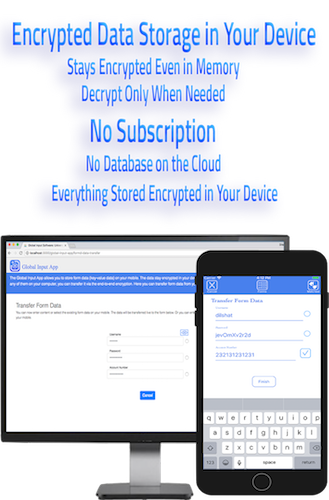
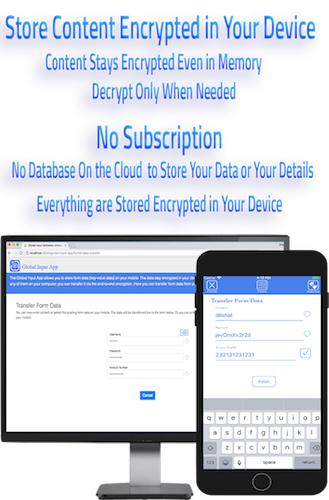
refactoring

Changed region(s): [[0.0304, 0.24, 0.9726, 0.45], [0.0, 0.03, 0.9726, 0.21]]

diff --git a/src/page-templates/configs/qrPrintingConfig.js b/src/page-templates/configs/qrPrintingConfig.js
@@ -1,6 +1,6 @@
 const qrPrintingConfig={
-    title:"Encrypted QR Code",
-    appSubtitle:"Encrypted QR Code",
+    title:"Create Encrypted QR Codes",
+    appSubtitle:"Encrypted QR Codes",
     menu:{
         link:"/global-input-app/qr-printing",
         linkText:"QR Code Printing",
@@ -8,51 +8,32 @@ const qrPrintingConfig={
          bookmark:"qrPrinting"
     },
     content:[
-    "You can use Encrypted QR Codes store and transfer encrypted content in the form of papers or images.",
-    "You can transfer content between two Global Input App instance securely without using network connection.",
-    "The encrypted QR Code can only be decrypted if the Global Input App contains the same encryption key that was used in encrypting the content. ",
-    "You can use the encryption keys to decide who can access the information in the QR codes",
-    {type:"line", content:["Here you can encrypt the content in the Global Input App and send the encrypted content over to your computer via ",{type:"a", href:"https://github.com/global-input/global-input-node",content:"the webSocket server"}]},
-    {type:"line", content:["This is also an example of how to use ",{
-      type:"a", content:"the global-input-message", href:"https://github.com/global-input/global-input-message"
-    }, " WebSocket JavaScript library  to implent the Global Input control on an application running on another device"]}],
+    "You can create encrypted QR Codes and print them out. A Global Input App instance can decrypt the encrypted QR Code only if it contains the same encryption key that was used for creating the encrypted QR code. Hence, you can pre-share one of the encryption keys in the app with another Global Input instance to transfer content securely via QR codes.",
+    "Here, you can encrypt content on your Global Input App and send the encrypted content over to a JavaScript code in this page using the end-to-end encryption for printing out the QR code.",
+    {type:"line", content:["This is also an example of how to use the ",{
+      type:"a", content:"global-input-message", href:"https://github.com/global-input/global-input-message"
+    }, " JavaScript library to implement a mobile control on a web application."]}],
 
     advert:{
-            duration:10000,
+            duration:5000,
             items:[{
-              title:"Encrypted QR Codes",
-              content:["Transfer the Encrypted Content Without Using the Network Connection",
-                      "Use Encrypted QR Codes to Backup Encryption Keys",
-                      "Use Encrypted QR Codes to Transfer Confidential Messages"],
-              className: "animateLeftRight"
+              title:"Create Encrypted QR Codes",
+              content:["Encrypt Content with Encryption Keys",
+                      "Backup and Share Credentials"],
             },{
-              title:"Use Papers to Backup Encryption Keys",
-              content:["Use the Encrypted QR Code to Backup Encryption Keys",
-                      "Scan to Import the Encryption Keys"],
-              className: "animateAppearFromSmallToBig"
+              title:"Scan to Decrypt the Content",
+              content:["Transfer Encrypted Content via QR Code",
+                      "Share Encryption Keys Securely"],
             },{
-              title:"Open Source Solution",
-              content:["Password Management, Encrypted Storage & Transfer",
-                       "Device Control, Second Screen, All in One Solution",
-                       "Extend Your Existing Applications into Mobile Devices"],
-              className:"animateSideSlide"
-            },{
-              title:"Encrypted QR Codes",
-              content:["Use the Encrypted QR Codes to Store and Transfer Encrypted Messages",
-                      "Scan to Decrypt the Encrypted Messages"],
-              className: "animateWithRotate"
-            },{
-              title:"Control the Access to the Content with the Encryption Keys",
-              content:["Share Encryptions Keys with Password Encrypted QR Codes",
-                      "Select Encrypt Key to Control Access to Data",
-                       "Scan to Import Password-Encrypted Encryption Keys"],
-              className: "animateLeftRight"
+              title:"Data Transfer using End-to-End Encryption",
+              content:["Transfer Content Between Devices",
+                       "Scan to Start the Data Transfer"],
             }]
 
     },
 
     connecting:{
-        title:"Encrypted QR Code",
+        title:"Encrypted QR Codes",
         content:"Loading..."
     },
     printed:{
@@ -66,7 +47,7 @@ const qrPrintingConfig={
     },
     senderConnected:{
         title:"Encrypted QR Code",
-        content:"Press the \"Encrypt\" button in the Global Input App to compose an encrypted message. The encrypted content will be send over from the Global Input App to the \"Content\" field in the form to use as the content of the QR code."
+        content:"Press the \"Encrypt\" button in the Global Input App to compose an encrypted message. The encrypted content will be send over from the Global Input App to the \"Content\" field in the form here."
     },
     contentField:{
         label:"Content"

diff --git a/src/page-templates/configs/contentTransferConfig.js b/src/page-templates/configs/contentTransferConfig.js
@@ -7,30 +7,23 @@ const contentTransferConfig={
     },
     title:"Encrypted Content Transfer",
     appSubtitle:"Content Transfer",
-    content:["Transfer content live between your Global Input App instance and a computer using the end-to-end encryption.",
-              {type:"line", content:["This also shows how to use ",{
+    content:["You can use the Global Input App to transfer content between your devices using the end-to-end encryption. You can use the app to transfer content to other Global Input App instance or vice versa.",
+             "Here, you can use the app to transfer content to a JavaScript code in this page. This allows you to transfer content between your mobile and your computer.",
+              {type:"line", content:["This is also also an example of how to use ",{
                 type:"a", content:"the global-input-message", href:"https://github.com/global-input/global-input-message"
-              }, " WebSocket JavaScript library  to enable an application to transfer content to/from the Global Input App"]}],
+              }, " WebSocket JavaScript library to introduce the mobile input or control to a JavaScript application."]}],
 
     advert:{
-            duration:10000,
+            duration:5000,
             items:[{
-              title:"Live Data Transfer from One Device to Another",
-              content:["The End-to-End Encryption Between the Global Input App and the JavaScript Code On the Page",
-                      "The Open Source Solution to Bring Mobile Device to Your Application"],
-              className: "animateLeftRight"
-            },{
-              title:"Open Source Solution",
-              content:["Password Management, Encrypted Storage & Transfer",
-                       "Device Control, Second Screen, All in One Solution",
-                       "Extend Your Existing Applications into Mobile Devices"],
-              className:"animateSideSlide"
-            },{
-              title:"Data Transfer Between Your Devices",
-              content:["Data Transfer via the End-To-End Encryption",
-                      "Encrypted Data Transfer via Open Source WebSocket Server"],
-              className: "animateAppearFromSmallToBig"
-            }]
+              title:"End-to-End Encrypted Data Transfer",
+              content:["Transfer Content Between Devices",
+                      "Scan to Start the Data Transfer"],
+              },{
+              title:"Sinle Mobile Solution",
+              content:["Password Management, Encrypted Storage & Data Transfer",
+                       "Mobile Input & Control for Device and Web Applications"],
+               }]
 
     },
 
@@ -46,7 +39,7 @@ const contentTransferConfig={
     },
     senderConnected:{
         title:"Encrypted Content Transfer",
-        content:"You can now type content on your mobile or on your computer, the content will appear on both.",
+        content:"You can now type the content on your mobile or on your computer, the content will appear on both.",
     },
     clipboard:{
       copied:"The content of the text field is copied into your clipboard"

diff --git a/src/page-templates/configs/developers/introductionToJSlibraryConfig.js b/src/page-templates/configs/developers/introductionToJSlibraryConfig.js
@@ -6,7 +6,7 @@ const introductionToJSlibraryConfig={
      bookmark:"globalinputmessage"
    },
    content:[{type:"line",content:["The ",{type:"a",content:"global-input-message WebSocket JavaScript Library",href:"https://github.com/global-input/global-input-message"}," is a JavaScript library for transferring data between applications using the end-to-end encryption."]},
-            "The end-to-end encryption and the message transporting logic are implemented transparently inside the global-input-message JavaScript library and the WebSocket server. This enables the WebSocket client applications concentrate on the business logic. An application can simply pass unencrypted messages to the global-input-message JavaScript library. The global-input-message JavaScript library encrypts the message content with the end-to-end encryption and forwards them over to the destination. On the receiving end, the global-input-message JavaScript library receives the encrypted messages, decrypt them and forward the decrypted messages to the callback function that the application has provided.",
+            "The end-to-end encryption and the message transporting logic are implemented transparently inside the global-input-message JavaScript library and the WebSocket server. This enables the WebSocket client applications concentrate on the business logic. An application can simply pass unencrypted messages to the global-input-message JavaScript library. The global-input-message JavaScript library encrypts the message content using the end-to-end encryption and forwards them over to the destination. On the receiving end, the global-input-message JavaScript library receives the encrypted messages, decrypt them and forward the decrypted messages to the callback function that the application has provided.",
           "An application can declaratively specify properties of the UI elements on the mobile screen and receive the corresponding data when the user interacts with them."],
     install:{
                link:"https://github.com/global-input/global-input-message",

diff --git a/src/content-transfer/ContentTransfer.js b/src/content-transfer/ContentTransfer.js
@@ -255,15 +255,17 @@ export default class ContentTransfer extends Component {
                appSubtitle={applicationPathConfig.contentTransfer.appSubtitle}>
               <div style={styles.content}>
                   <DisplayStaticContent content={applicationPathConfig.contentTransfer.senderConnected.content}/>
+                  <div style={styles.inputContainer}>
+                    <TextAreaWithLabel
+                              rows={10} cols={70}
+                              onChange={this.onFieldValueChangged.bind(this)}
+                              fieldIndex={0}
+                              fieldId={contentField.id}
+                              value={contentField.value}
+                              label={applicationPathConfig.contentTransfer.contentField.label}/>
+                              <NotificationMessage message={this.state.message} setMessage={this.setMessage.bind(this)}/>
+                  </div>
 
-                 <TextAreaWithLabel
-                           rows={10} cols={70}
-                           onChange={this.onFieldValueChangged.bind(this)}
-                           fieldIndex={0}
-                           fieldId={contentField.id}
-                           value={contentField.value}
-                           label={applicationPathConfig.contentTransfer.contentField.label}/>
-                           <NotificationMessage message={this.state.message} setMessage={this.setMessage.bind(this)}/>
                         <div style={styles.buttonContainer}>
                             {this.renderCopyButton(contentField)}
                             <TextButton label={applicationPathConfig.contentTransfer.finishButton}

diff --git a/src/page-templates/configs/about/privacyConfig.js b/src/page-templates/configs/about/privacyConfig.js
@@ -28,7 +28,7 @@ const privacyConfig={
   content:["The Global Input App works on it own independently and stores the data encrypted in the device's local storage.  So there is no subscription, no external services, no cloud, no usage collection by the app, not even network communication is required until the end-to-end encrypted data transfer between devices are initiated. In this case, only the webSocket proxy server stands in the middle transferring the encrypted data between your devices.",
             "The app password is for decrypting the password-encrypted encryption key, so there is no way of getting back the access to the app if the password is forgotten.",
             "This also means that it is users' own responsibility to backup the encrypted form data regularly, and export the active encryption key that is used to encrypt the form data and put it in a safe place.",
-            "An end-to-end encrypted data transfer between devices goes through via a WebSocket server. The WebSocket server collects the IP addresses and unique app IDs for the purpose of maintaining the server. The data in the form fields are not visible to the WebSocket server, because they are encrypted with the end-to-end encryption."],
+            "An end-to-end encrypted data transfer between devices goes through via a WebSocket server. The WebSocket server collects the IP addresses and unique app IDs for the purpose of maintaining the server. The data in the form fields are not visible to the WebSocket server, because they are encrypted using the end-to-end encryption."],
 
 };
 export default privacyConfig;

diff --git a/src/page-templates/configs/developers/developerTextConfig.js b/src/page-templates/configs/developers/developerTextConfig.js
@@ -7,7 +7,7 @@ const developerTextConfig={
   },
   content:["The Global Input App enables service applications running on other devices such as computers, Smart TV or IoT devices, to exchange encryption keys via the QR Codes and communicate using the end-to-end encryption technology. Any web applications and websites can be easily modified to support the Global Input App.",
   "The service applications can declaretively define the UI elements displayed in the operational space of the Global Inout app and receive messages via the encrypted channel as the user interacts with the UI elements.",
-  "If you have service applications running on web servers, house-hold devices, or on IoT devices, you can allow your users to operate on it securely without developing a separate mobile applications for it. Also since the user-sensive data are stored in users' device and communication channel is secured with the end-to-end encryption, you do not need to worry about security or user privacy."],
+  "If you have service applications running on web servers, house-hold devices, or on IoT devices, you can allow your users to operate on it securely without developing a separate mobile applications for it. Also since the user-sensive data are stored in users' device and communication channel is secured using the end-to-end encryption, you do not need to worry about security or user privacy."],
   advert:{
       duration:5000,
       items:[{

diff --git a/src/page-templates/sections/styles/index.js b/src/page-templates/sections/styles/index.js
@@ -80,7 +80,7 @@ const styles={
 
               margin:0,
               backgroundColor: "#4880ED",
-              paddingTop:10,
+              paddingTop:30,
               paddingLeft:20,
               paddingRight:0,
               paddingBottom:0,
@@ -130,11 +130,11 @@ const styles={
         flexDirection: "column",
         justifyContent: "center",
         alignItems: "flex-start",
-        marginTop:70,
+        marginTop:50,
         marginRight:20,
-        paddingBottom:30,
+        paddingBottom:0,
         flex:1,
-        
+
       },
       installContainer:{
 
@@ -143,13 +143,13 @@ const styles={
       advertItemContainer:{
           position:"absolute",
           lef:10,
-          top:40
+          top:20
       },
       advertContainer:{
         position:"relative",
-        minHeight:300,
+        minHeight:220,
         width:"100%",
-        overflow:"scroll"
+        overflow:"scroll",
 
       }
 
@@ -158,6 +158,10 @@ const styles={
 
 };
 
+styles.advertContainerMobile=Object.assign({},styles.advertContainer,{
+  minHeight:320,
+
+});
 
 styles.pageDescriptionSectionMobile=Object.assign({},styles.pageDescriptionSection,{
   flexDirection:"column",
@@ -165,7 +169,7 @@ styles.pageDescriptionSectionMobile=Object.assign({},styles.pageDescriptionSecti
 });
 
 styles.pageDescriptionWithImage=Object.assign({},styles.pageDescription,{
-        //minHeight:400,
+
 
 });
 

diff --git a/src/page-templates/configs/formDataTransferConfig.js b/src/page-templates/configs/formDataTransferConfig.js
@@ -6,9 +6,9 @@ const formDataTransferConfig={
      backLink:"/?scrollTo=formDataTransfer",
      bookmark:"formDataTransfer"
   },
-  content:["Transfer form data from one device to another.",
-            "The data stay encrypted in your device and will not be stored anywhere else, and decrypted only where it is needed",
-            "You can transfer any form data on-demand between your devices via the end-to-end encryption, so no need for typing your app password on computers.",
+  content:["Global Input App manages the encrypted content into custom fields, forms and folders.",
+           "The data is decrypted only when it is needed, and can be transferred to another device using the end-to-end encryption.",
+                       
             {type:"line", content:["This is also an example of how to use ",{
               type:"a", content:"the global-input-message", href:"https://github.com/global-input/global-input-message"
             }, " WebSocket JavaScript library  to declaratively define form fields to receive form data from the Global Input App"]}],

diff --git a/src/page-templates/configs/homeTextConfig.js b/src/page-templates/configs/homeTextConfig.js
@@ -8,9 +8,9 @@ const  homeTextConfig={
   advert:{
       duration:5000,
       items:[{
-        title:"Encrypted Data Storage in Your Device",
-        content:["Stays Encrypted Even in Memory",
-                "Decrypt Only When Needed"],
+        title:"Store Content Encrypted in Your Device",
+        content:["Content Stays Encrypted Even in Memory",
+                "Decrypted Only When Needed"],
       },{
         title:"Own Your Data and Encryption",
         content:["Create, Manage Encryption Keys",

diff --git a/src/page-templates/sections/PageAdvert.js b/src/page-templates/sections/PageAdvert.js
@@ -167,8 +167,13 @@ renderAnimation(){
   <DisplayStaticContent content={advertItem.content} lineStyle={styles.advertContent}/>
   */
   var advertcompoent=this.state.advertComponents[this.state.index];
+  var advertContainer=styles.advertContainer;
+  if(styles.isMobile()){
+    advertContainer=styles.advertContainerMobile;
+  }
+
   return(
-    <div style={styles.advertContainer}>
+    <div style={advertContainer}>
           <CSSTransitionGroup
               transitionName="advertAnimation"
 

diff --git a/src/content-transfer/styles/index.js b/src/content-transfer/styles/index.js
@@ -9,6 +9,10 @@ export const styles={
     paddingLeft:10,
     paddingRight:10,
   },
+  inputContainer:{
+      paddingTop:10,
+
+  },
 
   buttonContainer:{
       display:"flex",
